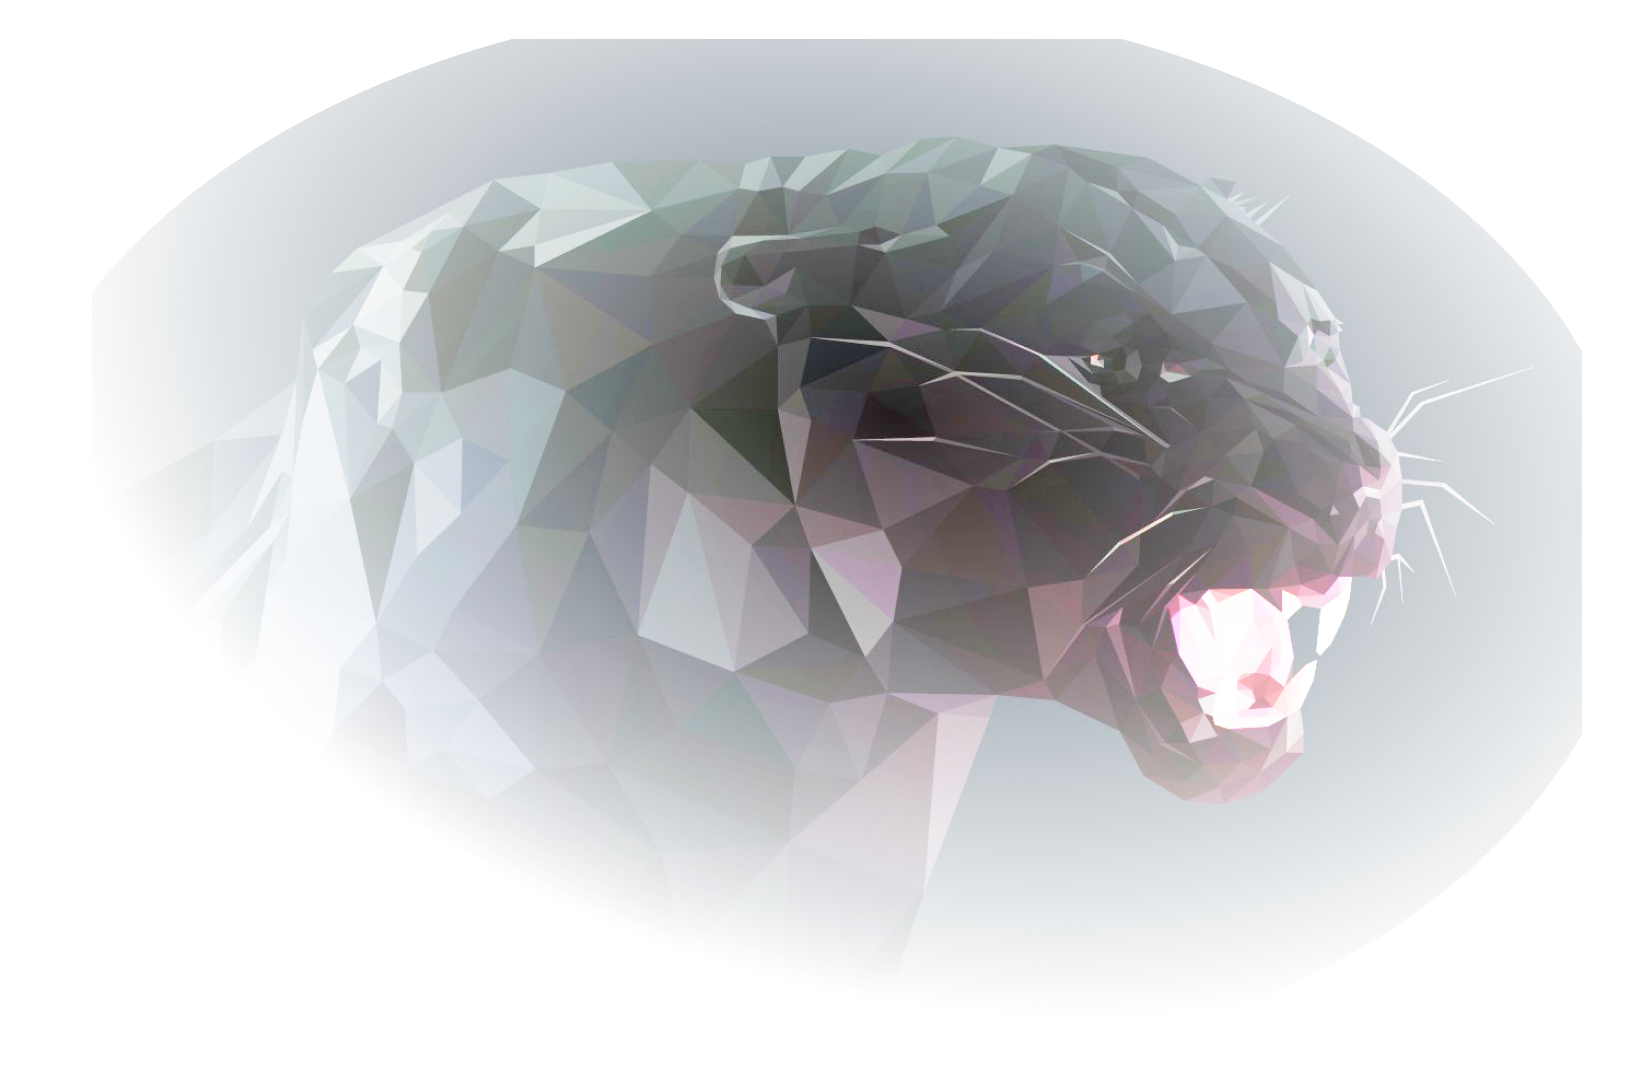
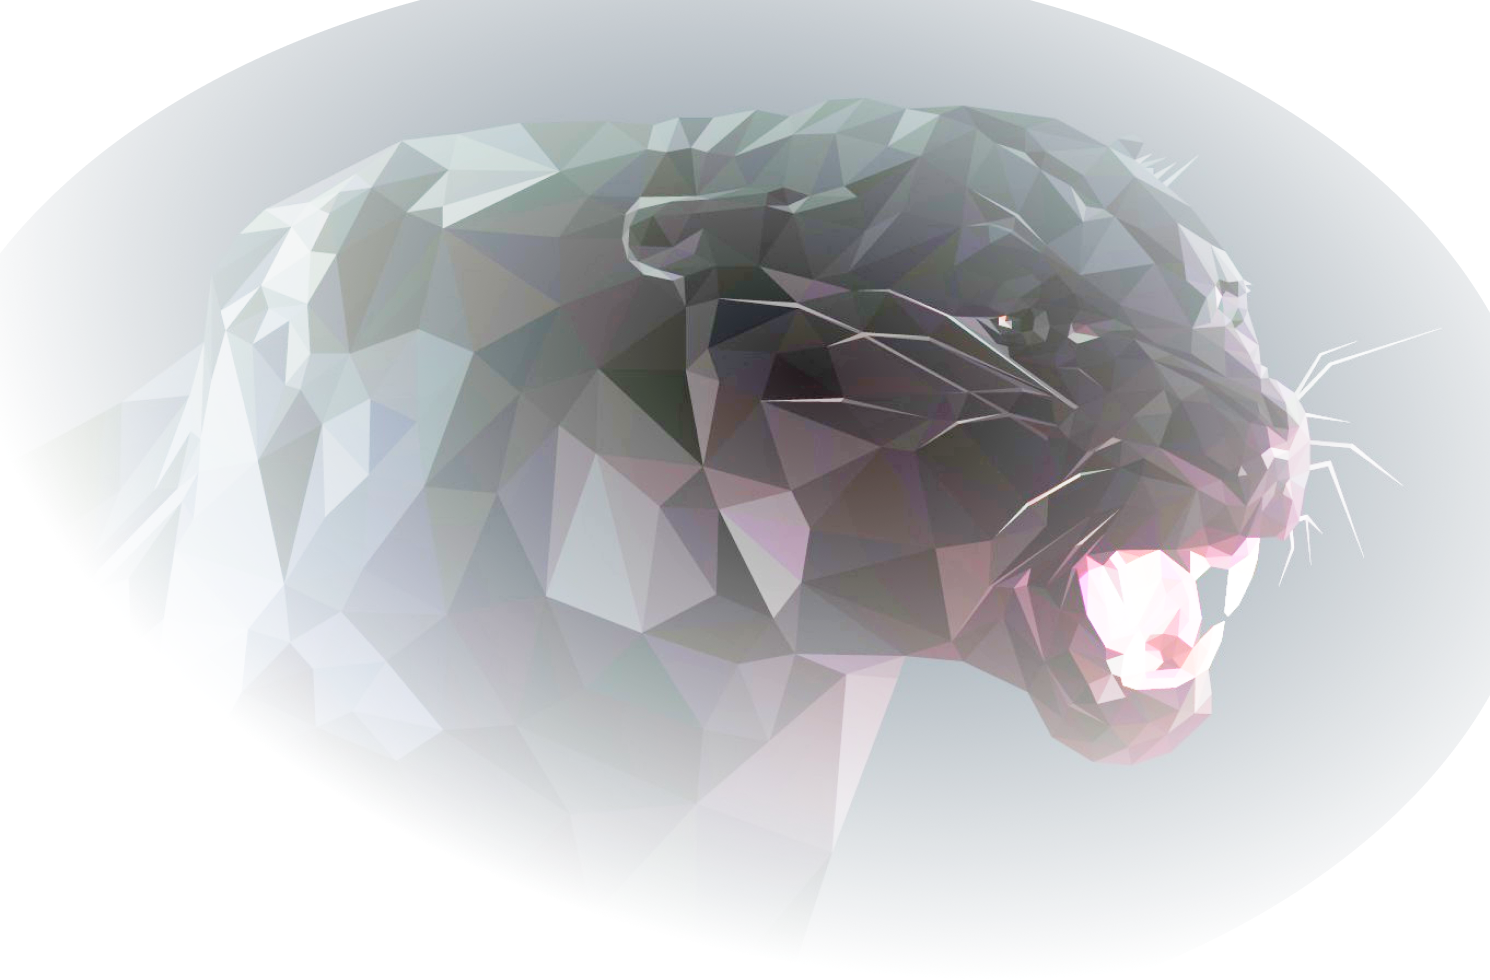
Fix background issue in wakanda and embed youtube video

diff --git a/styles/src/styles.scss b/styles/src/styles.scss
@@ -143,6 +143,24 @@ body {
   }
   .section-hero {
     flex-direction: column;
+    position: relative;
+    > * {
+      z-index: 1;
+    }
+    &::after {
+      content: "";
+      background: url("/assets/images/wakanda/Pantherwakanda2.png");
+      background-size: 100% auto;
+      background-position: top;
+      background-repeat: no-repeat;
+      position: absolute;
+      top: 0;
+      left: 0;
+      width: 100%;
+      height: 100%;
+      opacity: 0.15;
+      z-index: 0;
+    }
   }
 }
 #enigmas {
@@ -353,11 +371,11 @@ body {
   font-size: 0.875rem;
 }
 
-// change it with actual youtube video
 .section-video {
-  background: variables.$blue-1;
-  height: 200px;
   margin-bottom: 2rem;
+  iframe {
+    width: 100%;
+  }
 }
 
 .section-hero {

diff --git a/styles/dist/styles.css b/styles/dist/styles.css
@@ -186,6 +186,24 @@ body {
 }
 #wakanda .section-hero {
   flex-direction: column;
+  position: relative;
+}
+#wakanda .section-hero > * {
+  z-index: 1;
+}
+#wakanda .section-hero::after {
+  content: "";
+  background: url("/assets/images/wakanda/Pantherwakanda2.png");
+  background-size: 100% auto;
+  background-position: top;
+  background-repeat: no-repeat;
+  position: absolute;
+  top: 0;
+  left: 0;
+  width: 100%;
+  height: 100%;
+  opacity: 0.15;
+  z-index: 0;
 }
 
 #enigmas .banner > :not(.banner-wrapper-image) {
@@ -382,9 +400,10 @@ body {
 }
 
 .section-video {
-  background: #3d2da6;
-  height: 200px;
   margin-bottom: 2rem;
+}
+.section-video iframe {
+  width: 100%;
 }
 
 .section-hero {

diff --git a/wakanda.html b/wakanda.html
@@ -85,7 +85,13 @@
           </p>
         </div>
         <div class="section-video">
-          <!-- TODO: embed youtube video here -->
+          <iframe
+            src="https://www.youtube.com/embed/ts30OG3Qld0"
+            title="The Dora Milaje | Warriors (+TF&TWS)"
+            frameborder="0"
+            allow="accelerometer; autoplay; clipboard-write; encrypted-media; gyroscope; picture-in-picture"
+            allowfullscreen
+          ></iframe>
         </div>
         <div>
           <h2 class="section-title">UN CINEMA AFRO AMERICAIN QUI RESONNE</h2>
